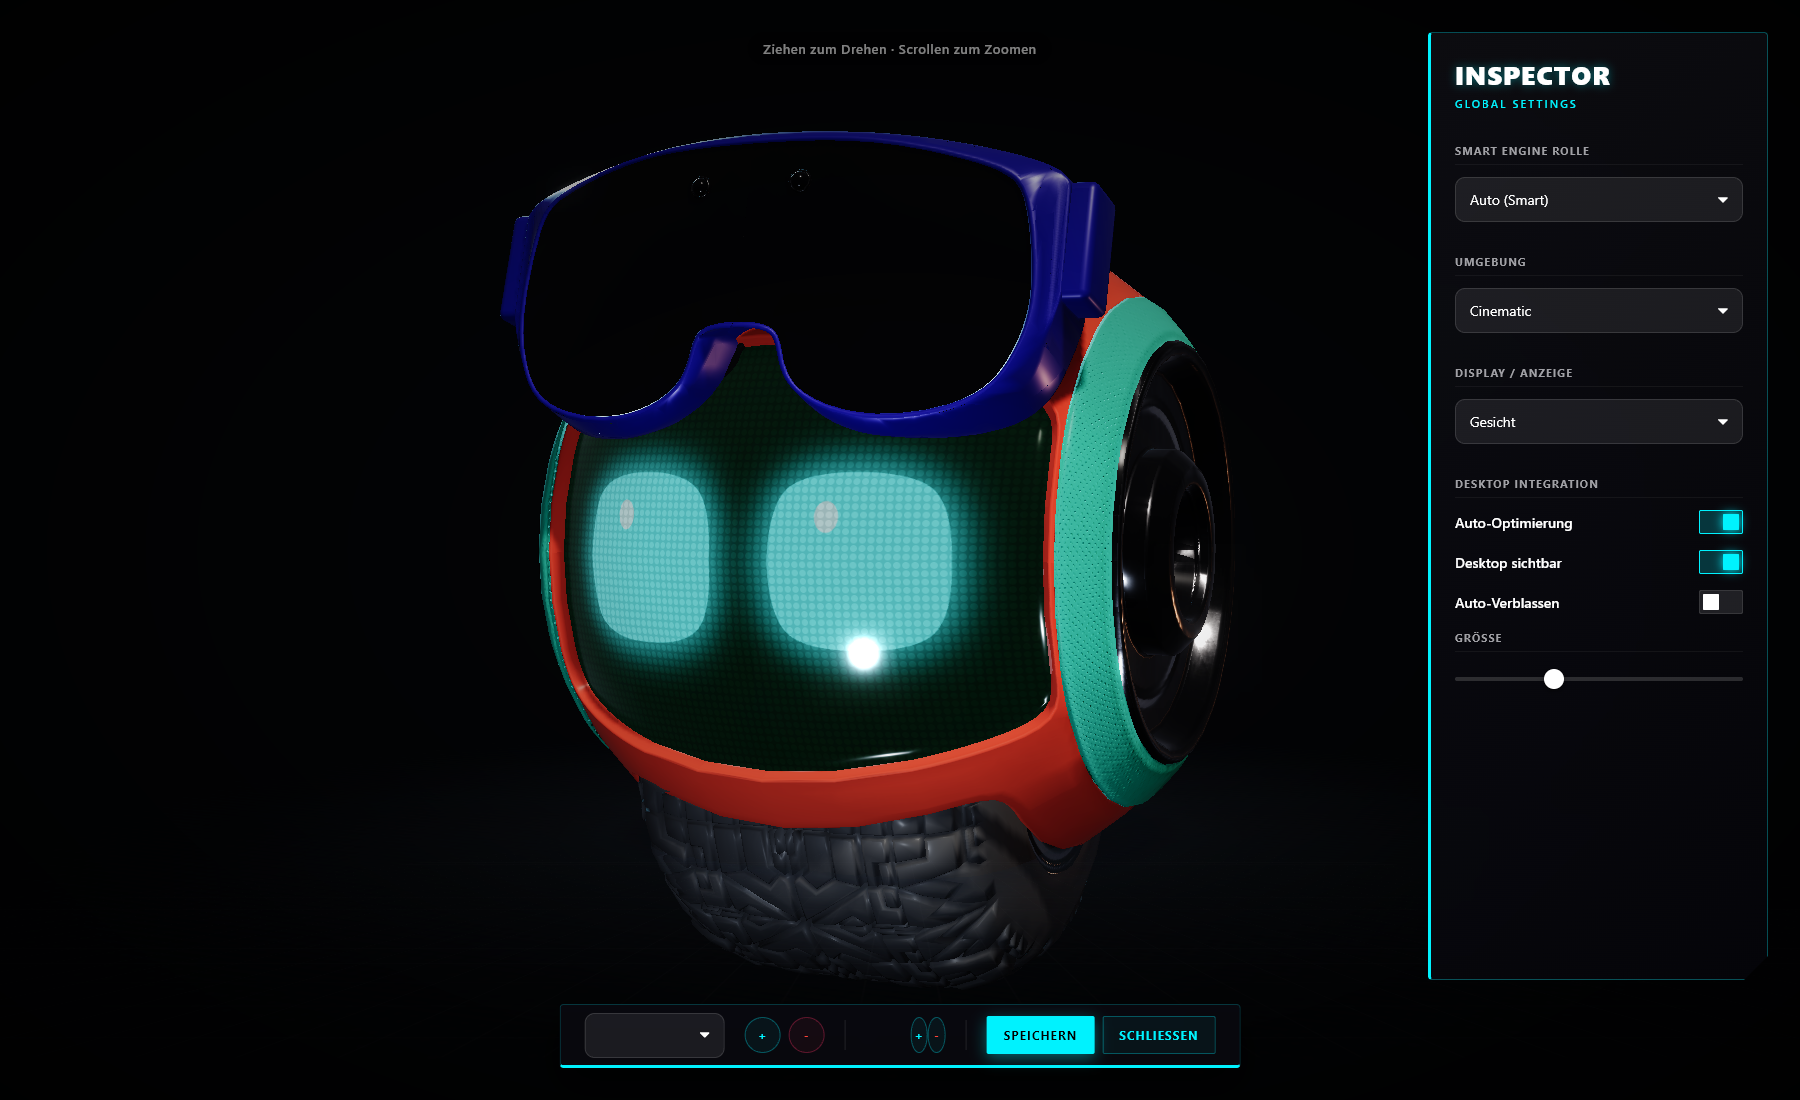
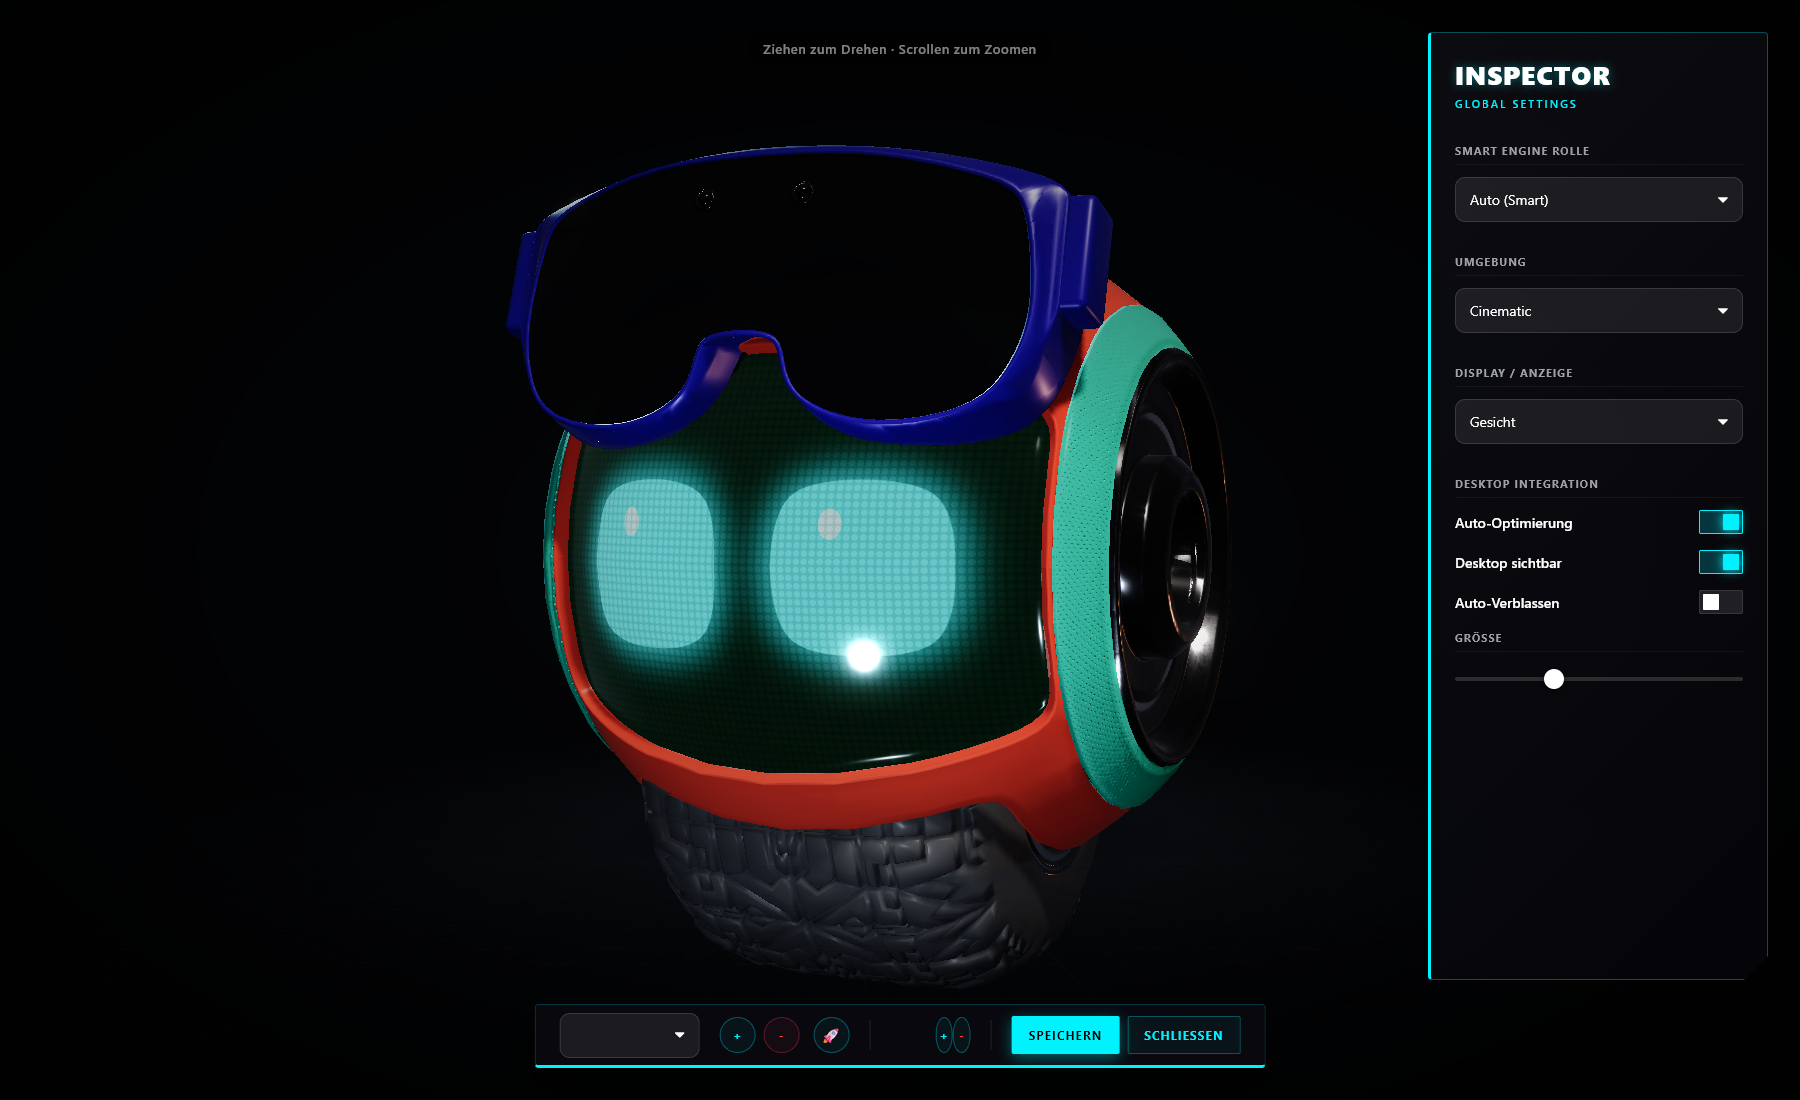
Fix real bug: bot could get stuck far from its target under throttled frames
The camera/robot easing used a delta clamped to 0.05s for stability. That
clamp is right for the spring-physics (accessory pop, extra-bot bob),
which use explicit Euler integration and can overshoot with a large dt —
but it was also being applied to the camera/robot ease, which is an
exponential decay and is unconditionally stable at any dt. Under a real
stall (throttled background tab, remote-desktop rendering, power-saving
mode, a GC pause) the clamp made the code pretend only 0.05s had passed
no matter how long the actual stall was, so the camera crawled back
toward its target at a fixed small step instead of catching up — visibly
"stuck" far from where the scroll position said it should be (confirmed
via a screenshot: text already on "Smart Engine" while the bot was still
sized/lit like it hadn't left the hero section). Fixed by using the real,
uncapped delta for the camera/robot ease specifically (verified via 20x
CPU throttling that it now reaches the correct position immediately),
while the spring-physics keep the clamped delta they actually need.

Also re-synced the three Studio screenshots on the Anleitung page — they
were taken before the library-spawn button was added and no longer
matched the current UI.

diff --git a/script.js b/script.js
@@ -717,7 +717,17 @@ function isMobileView() { return window.innerWidth < 900 || window.innerHeight <
 
 function animate() {
     requestAnimationFrame(animate);
-    const delta = Math.min(clock.getDelta(), 0.05);
+    // Two different deltas on purpose. rawDelta is the actual elapsed time —
+    // needed so the camera/robot ease can immediately catch all the way up
+    // after a stall (throttled background tab, remote-desktop/low-power
+    // rendering, a long GC pause) instead of crawling back at a fixed small
+    // step regardless of how long the stall was. The clamped `delta` still
+    // feeds the spring-physics (accessory pop, extra-bot bob) and the
+    // animation mixer, which — unlike the unconditionally-stable exponential
+    // ease — use explicit Euler integration and really can blow up or
+    // overshoot wildly if fed a multi-second dt in one step.
+    const rawDelta = clock.getDelta();
+    const delta = Math.min(rawDelta, 0.05);
     if (mixer) mixer.update(delta);
 
     mouseX += (mouseTargetX - mouseX) * 0.04;
@@ -753,7 +763,7 @@ function animate() {
     // section, reported as "too slow, you miss it." Tightened to a ~0.045s
     // time constant: still smooths out raw per-frame scroll jitter, but
     // tracks fast scrolling closely enough to actually arrive.
-    const ease = 1 - Math.pow(0.000000001, delta); // frame-rate-independent damping
+    const ease = 1 - Math.pow(0.000000001, rawDelta); // frame-rate-independent damping, uncapped so a stalled tab catches up in one step on resume
     curCam.pos.x = lerp(curCam.pos.x, targetCamPos[0], ease);
     curCam.pos.y = lerp(curCam.pos.y, targetCamPos[1], ease);
     curCam.pos.z = lerp(curCam.pos.z, targetCamPos[2], ease);